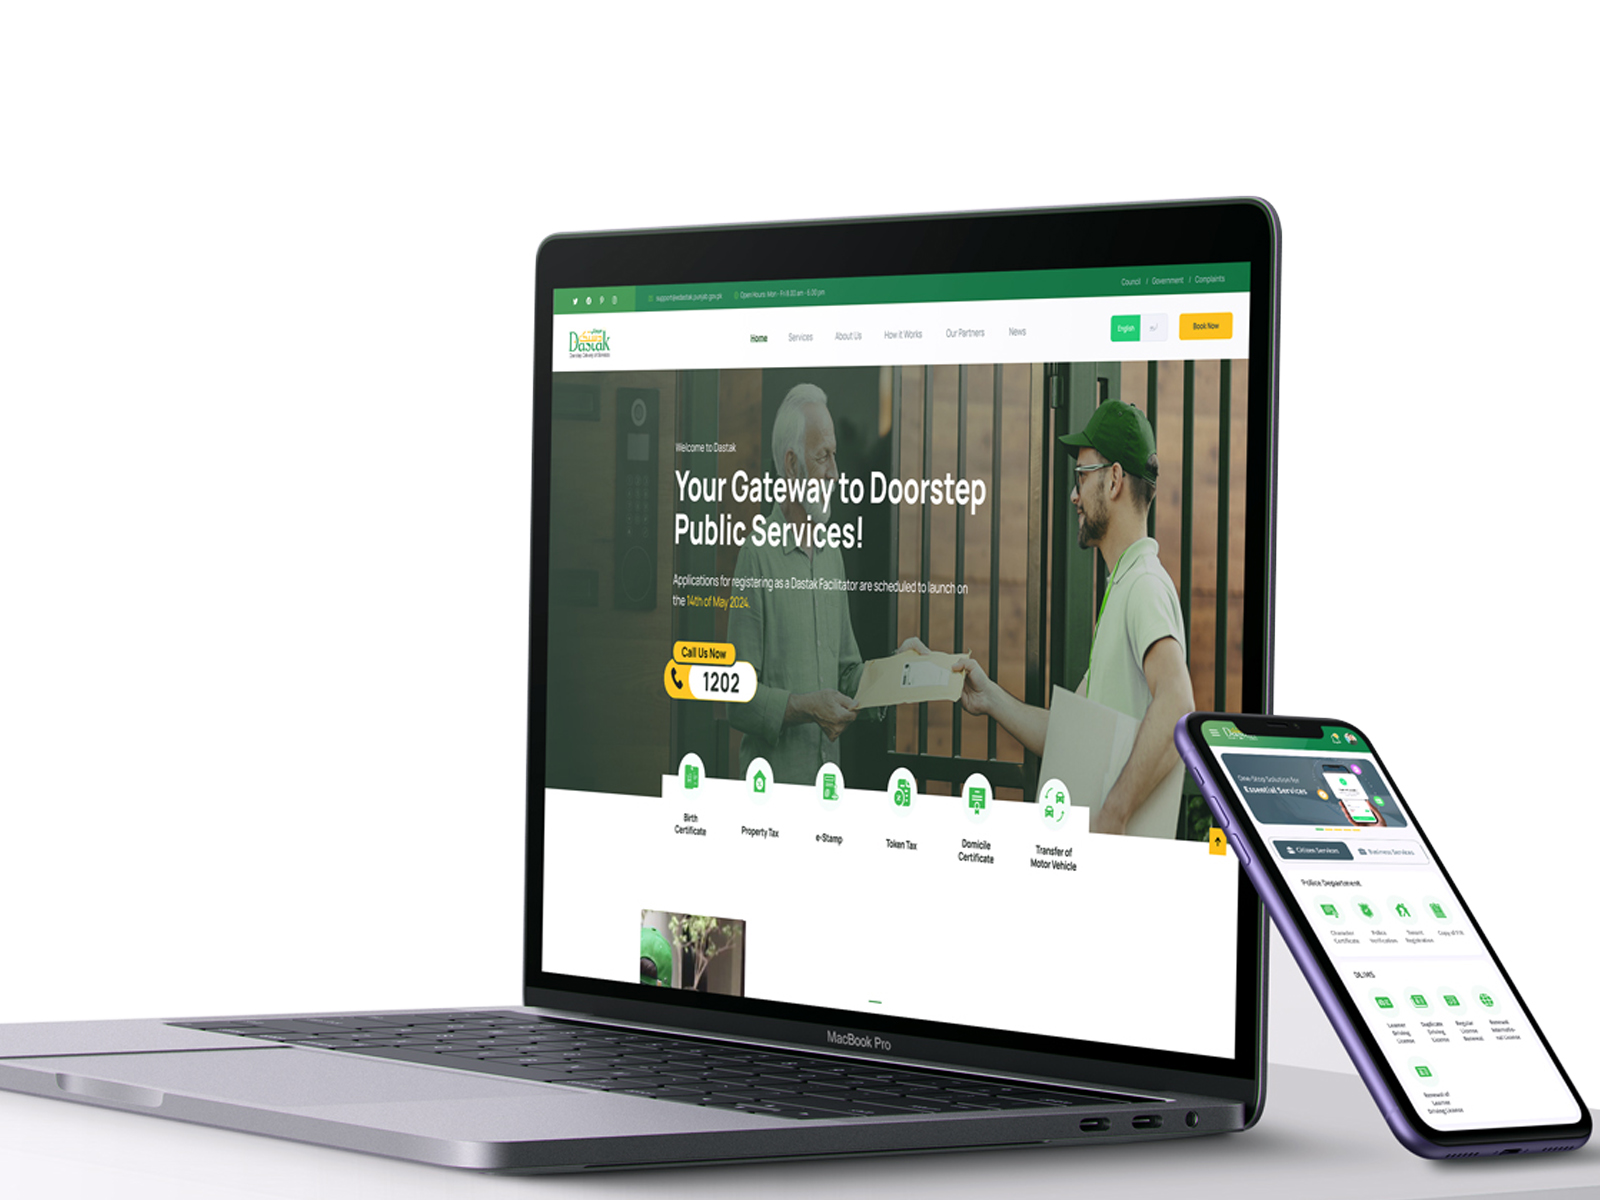
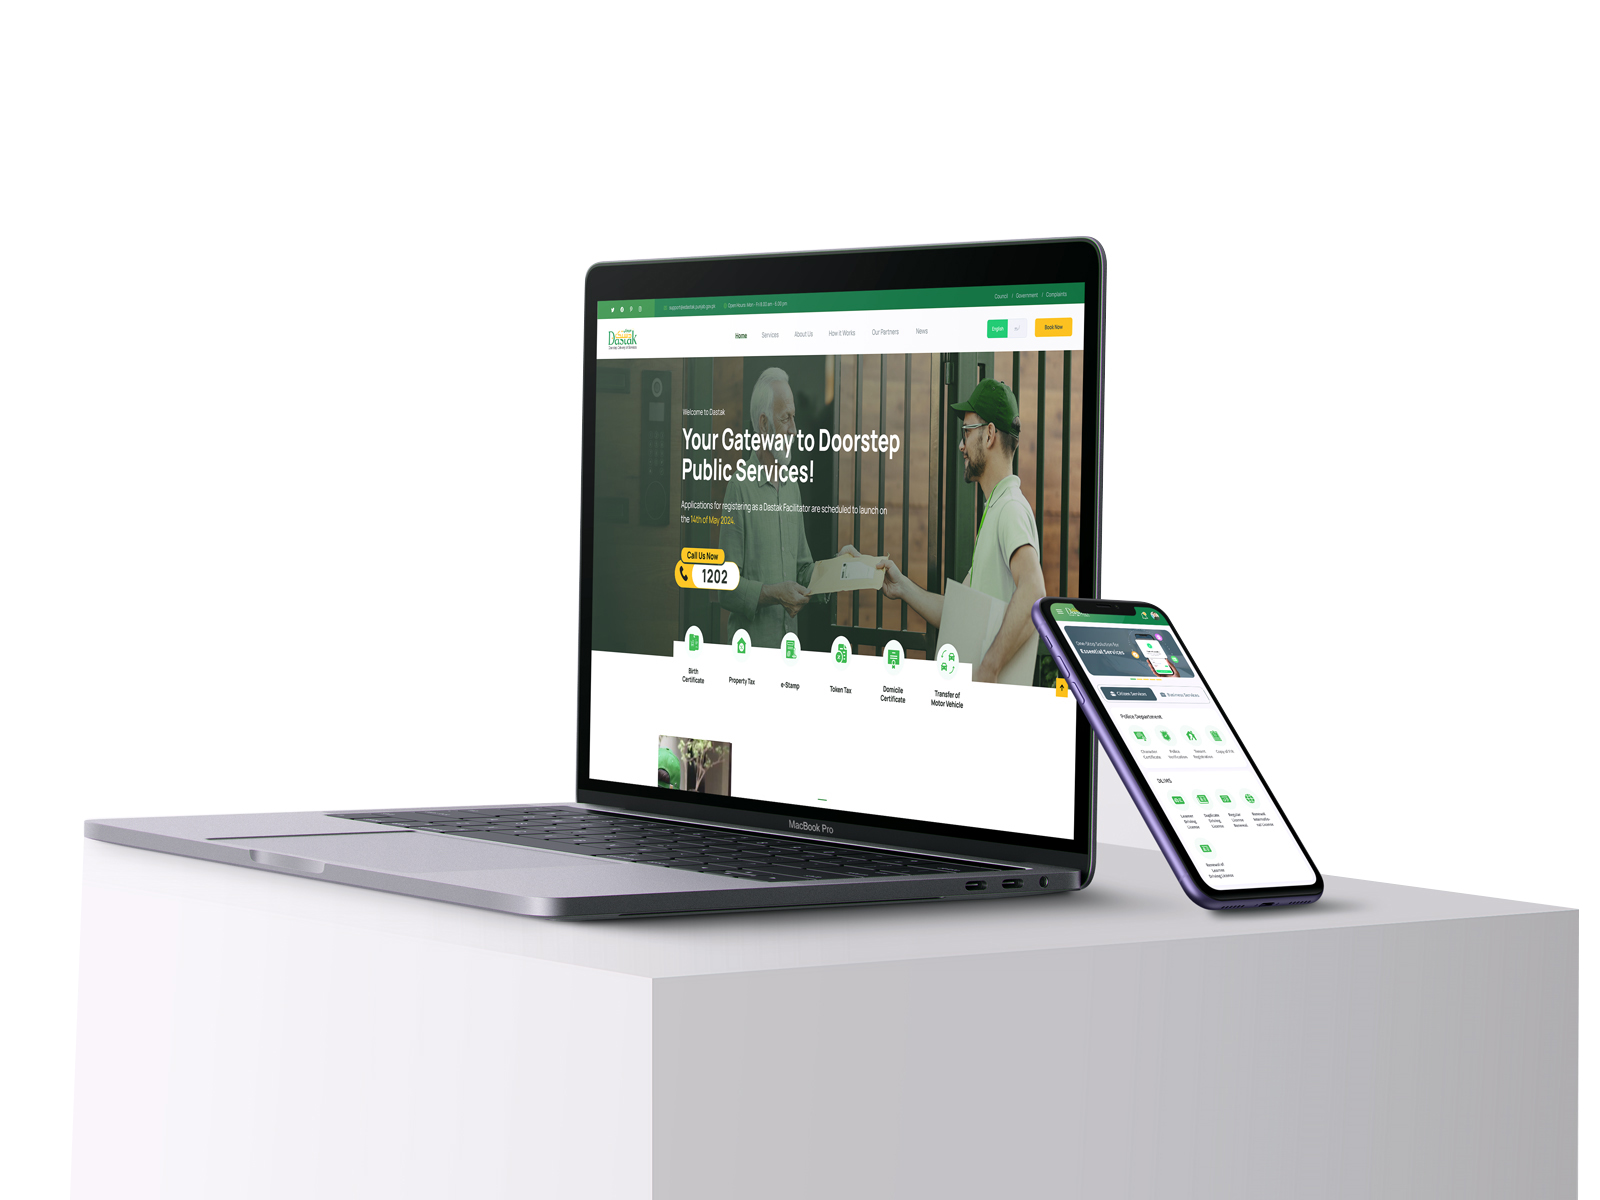
home page heading and profile photo changed

diff --git a/app/v2/page.js b/app/v2/page.js
@@ -3,6 +3,7 @@ import Footer from "@/components/Footer";
 import AnimateIn from "@/components/AnimateIn";
 import WorkHorizontalScroll from "@/components/WorkHorizontalScroll";
 import Link from "next/link";
+import Image from "next/image";
 import { projects } from "@/lib/projects";
 
 // Using .wrapper class from globals.css
@@ -29,7 +30,7 @@ export default function Home() {
           <div className="wrapper">
             <AnimateIn>
               <h1 className="hero-heading max-w-4xl">
-                Turning complex government workflows into clear, accessible digital experiences &mdash; used by 20M+ citizens
+                Turning complex workflows into clear, accessible digital experiences &mdash; used by 20M+ users
               </h1>
             </AnimateIn>
 
@@ -88,8 +89,14 @@ export default function Home() {
           <div className="grid grid-cols-1 md:grid-cols-12 gap-12 md:gap-16 items-center">
             <div className="md:col-span-5 order-2 md:order-1">
               <AnimateIn>
-                <div className="bg-[var(--color-bg-card)] rounded-2xl aspect-[3/4] overflow-hidden flex items-center justify-center text-[var(--color-text-subtle)] text-xs uppercase tracking-[0.2em]">
-                  Your photo
+                <div className="bg-[var(--color-bg-card)] rounded-2xl aspect-[3/4] overflow-hidden relative">
+                  <Image
+                    src="/images/profile/v2/profile.jpg"
+                    alt="Arsalan Aslam"
+                    fill
+                    sizes="(min-width: 768px) 42vw, 100vw"
+                    className="object-cover"
+                  />
                 </div>
               </AnimateIn>
             </div>
